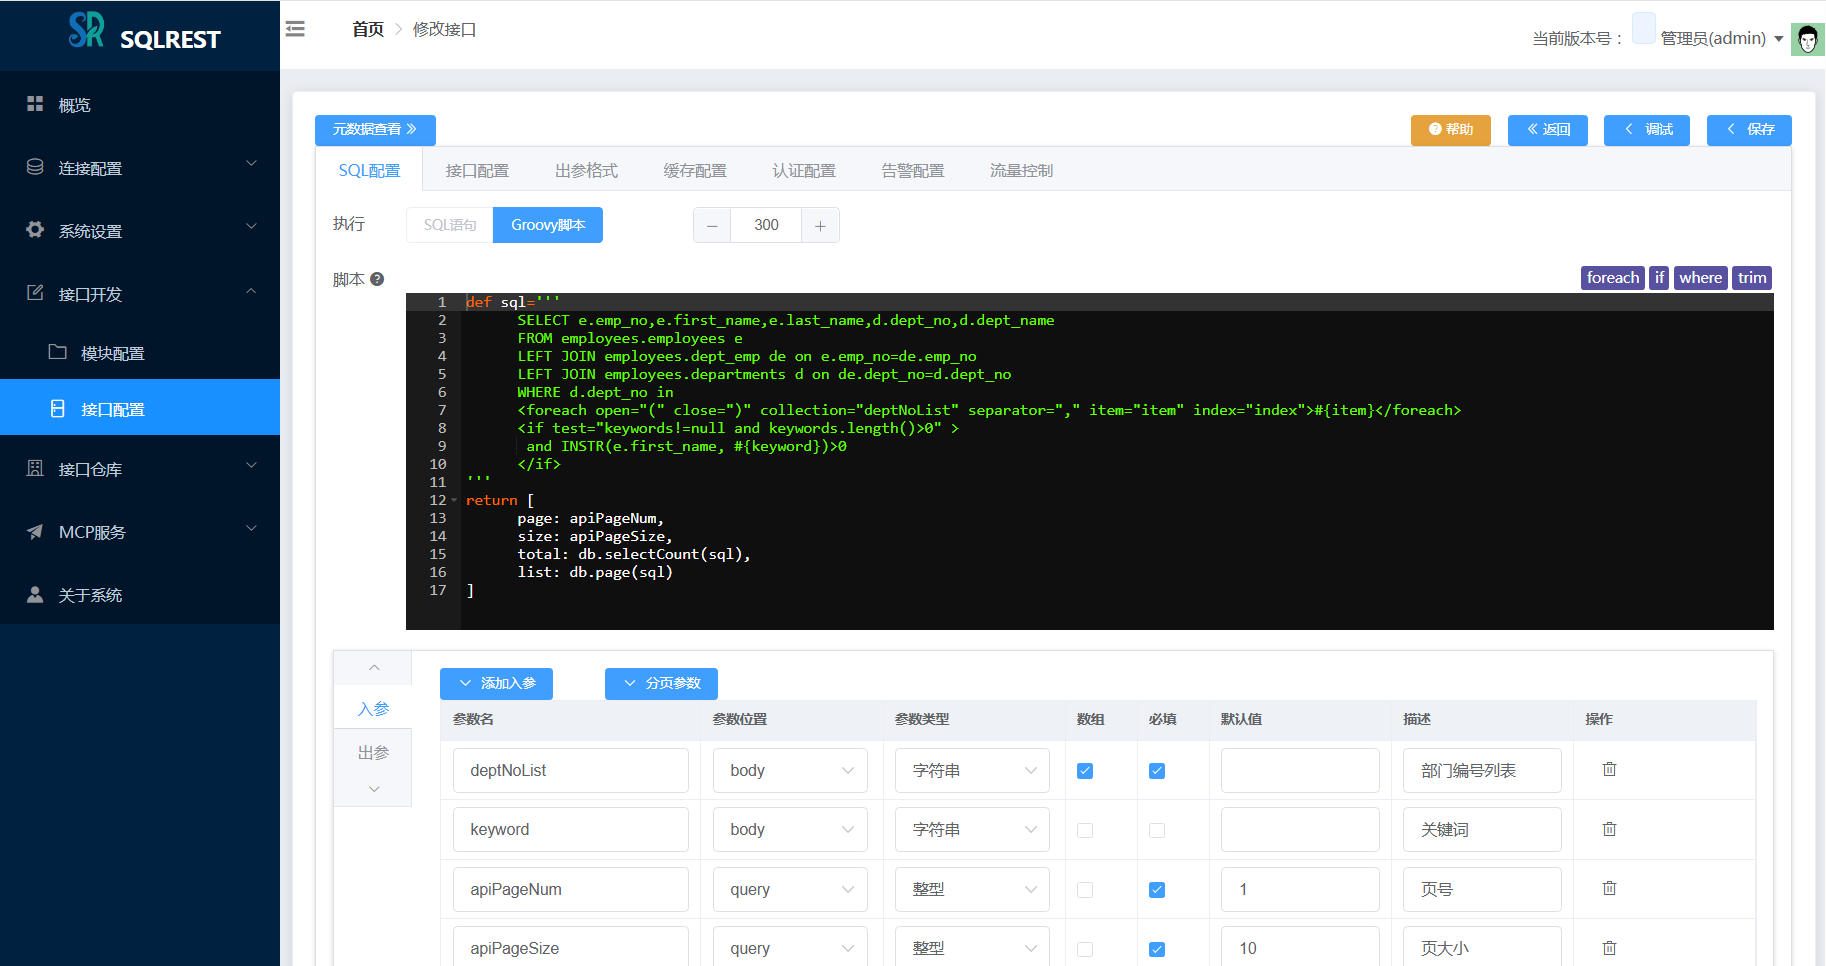
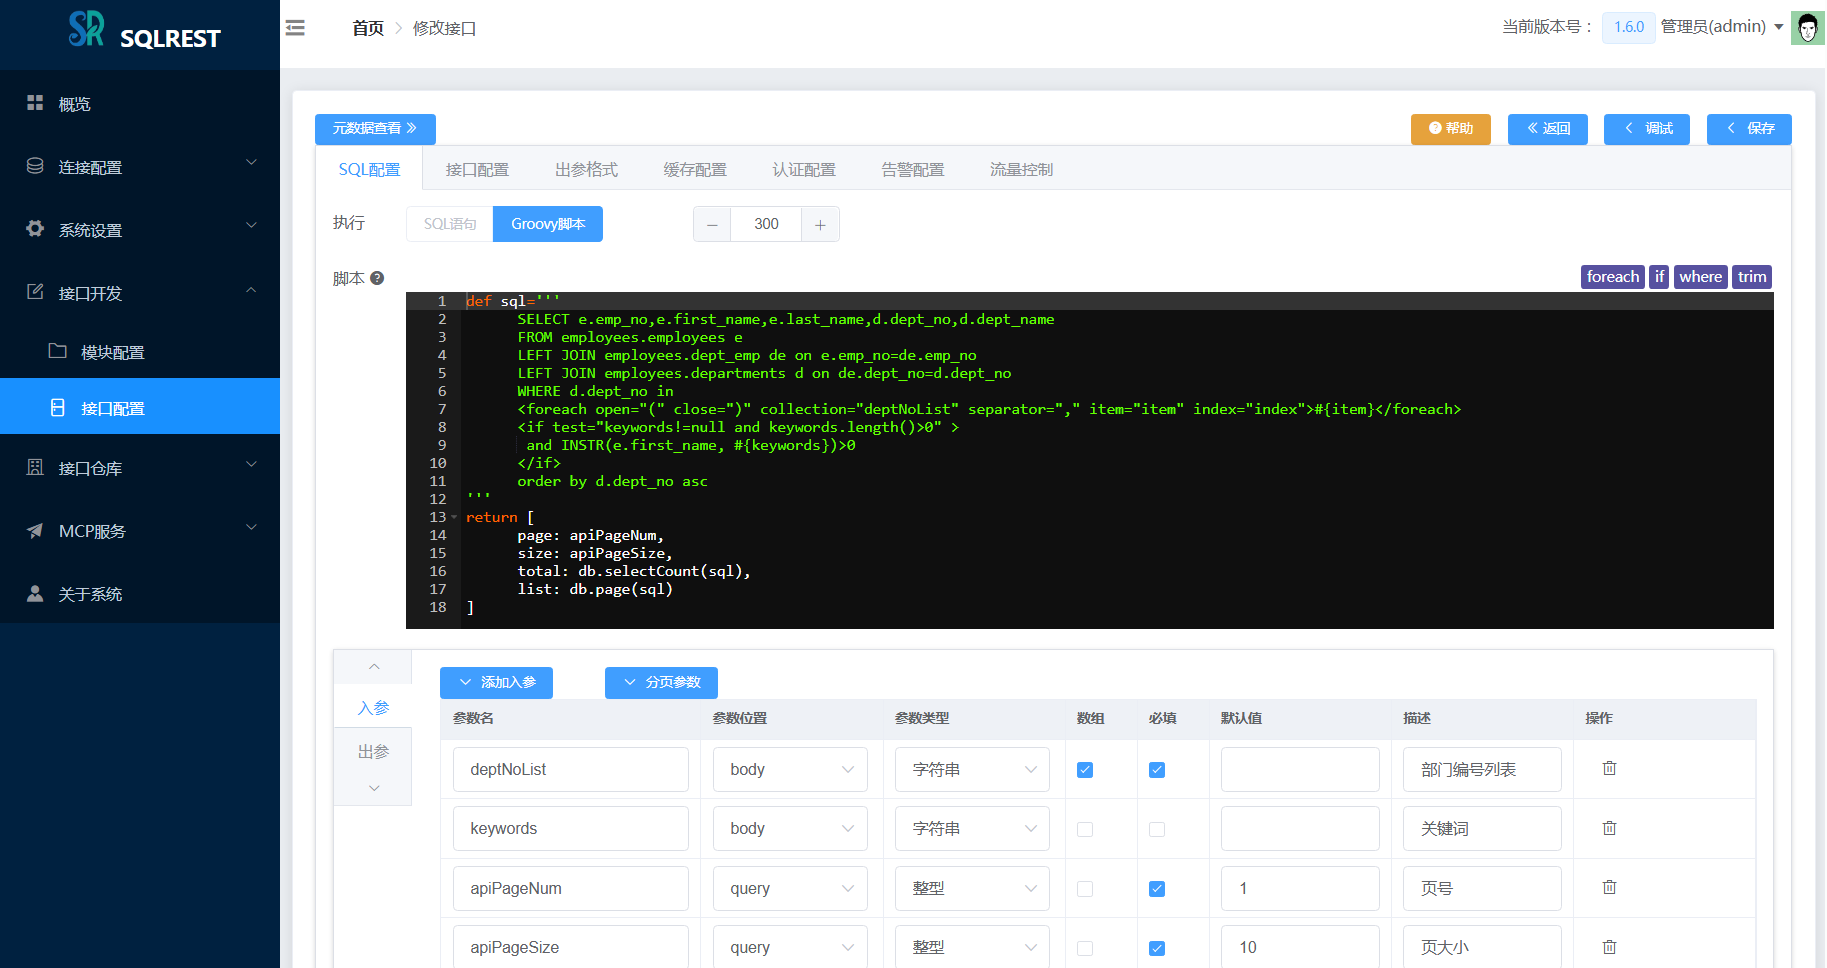
修正分页查询问题

diff --git a/sqlrest-common/src/main/java/org/dromara/sqlrest/common/enums/ProductTypeEnum.java b/sqlrest-common/src/main/java/org/dromara/sqlrest/common/enums/ProductTypeEnum.java
@@ -39,7 +39,7 @@ public enum ProductTypeEnum {
               "jdbc:mysql://172.17.2.10:3306/test?useUnicode=true&characterEncoding=utf-8&useSSL=false&zeroDateTimeBehavior=convertToNull&serverTimezone=Asia/Shanghai&tinyInt1isBit=false&rewriteBatchedStatements=true&useCompression=true")
           .sqlSchemaList("SELECT `SCHEMA_NAME` FROM `information_schema`.`SCHEMATA`")
           .adapter(database -> Pair.of(database, null))
-          .pageSql("select * from (%s) alias limit ? OFFSET ? ")
+          .pageSql("%s LIMIT ? OFFSET ? ")
           .pageConsumer(
               (page, size, parameters) -> {
                 parameters.add(size);
@@ -63,7 +63,7 @@ public enum ProductTypeEnum {
               "jdbc:mariadb://172.17.2.10:3306/test?useUnicode=true&characterEncoding=utf-8&useSSL=false&zeroDateTimeBehavior=convertToNull&serverTimezone=Asia/Shanghai&tinyInt1isBit=false&rewriteBatchedStatements=true&useCompression=true")
           .sqlSchemaList("SELECT `SCHEMA_NAME` FROM `information_schema`.`SCHEMATA`")
           .adapter(database -> Pair.of(database, null))
-          .pageSql("select * from (%s) alias limit ? OFFSET ? ")
+          .pageSql("%s LIMIT ? OFFSET ? ")
           .pageConsumer(
               (page, size, parameters) -> {
                 parameters.add(size);
@@ -136,7 +136,7 @@ public enum ProductTypeEnum {
           .urlSample("jdbc:postgresql://172.17.2.10:5432/test")
           .sqlSchemaList("SELECT schema_name FROM information_schema.schemata ")
           .adapter(database -> Pair.of(null, database))
-          .pageSql("select * from (%s) alias limit ? offset ? ")
+          .pageSql("%s LIMIT ? OFFSET ? ")
           .pageConsumer(
               (page, size, parameters) -> {
                 parameters.add(size);
@@ -182,11 +182,11 @@ public enum ProductTypeEnum {
           .defaultPort(5236)
           .testSql("SELECT 'Hello' from DUAL")
           .urlPrefix("jdbc:dm://")
-          .tplUrls(new String[]{"jdbc:dm://{host}:{port}[/{database}][\\\\?{params}]"})
+          .tplUrls(new String[]{"jdbc:dm://{host}:{port}[/{database}][\\?{params}]"})
           .urlSample("jdbc:dm://172.17.2.10:5236")
           .sqlSchemaList("SELECT DISTINCT object_name FROM ALL_OBJECTS WHERE OBJECT_TYPE = 'SCH'")
           .adapter(database -> Pair.of(null, database))
-          .pageSql("select * from (%s) alias limit ? offset ? ")
+          .pageSql("%s LIMIT ? OFFSET ? ")
           .pageConsumer(
               (page, size, parameters) -> {
                 parameters.add(size);
@@ -210,7 +210,7 @@ public enum ProductTypeEnum {
           .urlSample("jdbc:kingbase8://172.17.2.10:54321/test")
           .sqlSchemaList("SELECT schema_name FROM information_schema.schemata ")
           .adapter(database -> Pair.of(null, database))
-          .pageSql("select * from (%s) alias limit ? offset ? ")
+          .pageSql("%s LIMIT ? OFFSET ? ")
           .pageConsumer(
               (page, size, parameters) -> {
                 parameters.add(size);
@@ -234,7 +234,7 @@ public enum ProductTypeEnum {
           .urlSample("jdbc:oscar://172.17.2.10:2003/OSCRDB")
           .sqlSchemaList("SELECT schema_name FROM information_schema.schemata ")
           .adapter(database -> Pair.of(null, database))
-          .pageSql("select * from (%s) alias limit ? offset ? ")
+          .pageSql("%s LIMIT ? OFFSET ? ")
           .pageConsumer(
               (page, size, parameters) -> {
                 parameters.add(size);
@@ -258,7 +258,7 @@ public enum ProductTypeEnum {
           .urlSample("jdbc:gbase://172.17.2.10:5258/test")
           .sqlSchemaList("SELECT schema_name FROM information_schema.schemata ")
           .adapter(database -> Pair.of(database, null))
-          .pageSql("select * from (%s) alias limit ? offset ? ")
+          .pageSql("%s LIMIT ? OFFSET ? ")
           .pageConsumer(
               (page, size, parameters) -> {
                 parameters.add(size);
@@ -282,7 +282,7 @@ public enum ProductTypeEnum {
           .urlSample("jdbc:sybase:Tds:172.17.2.10:5000/test?charset=cp936")
           .sqlSchemaList("SELECT schema_name FROM information_schema.schemata ")
           .adapter(database -> Pair.of(null, database))
-          .pageSql("SELECT * FROM (%s) ALIAS OFFSET ? ROWS FETCH NEXT ? ROWS ONLY")
+          .pageSql("%s OFFSET ? ROWS FETCH NEXT ? ROWS ONLY")
           .pageConsumer(
               (page, size, parameters) -> {
                 parameters.add((page - 1) * size);
@@ -306,7 +306,7 @@ public enum ProductTypeEnum {
           .urlSample("jdbc:hive2://172.17.2.12:10000/default")
           .sqlSchemaList("SHOW DATABASES")
           .adapter(database -> Pair.of(null, database))
-          .pageSql("select * from (%s) alias limit ? OFFSET ? ")
+          .pageSql("%s LIMIT ? OFFSET ? ")
           .pageConsumer(
               (page, size, parameters) -> {
                 parameters.add(size);
@@ -339,7 +339,7 @@ public enum ProductTypeEnum {
           .urlSample("jdbc:impala://172.17.2.12:10000/default")
           .sqlSchemaList("SHOW DATABASES")
           .adapter(database -> Pair.of(null, database))
-          .pageSql("select * from (%s) alias limit ? OFFSET ? ")
+          .pageSql("%s LIMIT ? OFFSET ? ")
           .pageConsumer(
               (page, size, parameters) -> {
                 parameters.add(size);
@@ -366,13 +366,13 @@ public enum ProductTypeEnum {
           .name("inceptor")
           .driver("org.apache.hive.jdbc.HiveDriver")
           .defaultPort(10000)
-          .testSql("SELECT 1")
+          .testSql(null)
           .urlPrefix("jdbc:hive2://")
           .tplUrls(new String[]{"jdbc:hive2://{host}[:{port}]/[{database}][;{params}]"})
           .urlSample("jdbc:hive2://172.17.2.12:10000/default;escape=false")
           .sqlSchemaList("SHOW DATABASES")
           .adapter(database -> Pair.of(null, database))
-          .pageSql("select * from (%s) alias limit ? OFFSET ? ")
+          .pageSql("%s LIMIT ? OFFSET ? ")
           .pageConsumer(
               (page, size, parameters) -> {
                 parameters.add(size);
@@ -407,7 +407,7 @@ public enum ProductTypeEnum {
           .sqlSchemaList(null)
           .retSchemaList(Collections.singletonList("sqlite_master"))
           .adapter(database -> Pair.of(null, database))
-          .pageSql("select * from (%s) alias limit ? offset ? ")
+          .pageSql("%s LIMIT ? OFFSET ? ")
           .pageConsumer(
               (page, size, parameters) -> {
                 parameters.add(size);
@@ -431,7 +431,7 @@ public enum ProductTypeEnum {
           .urlSample("jdbc:opengauss://172.17.2.10:5432/test")
           .sqlSchemaList("SELECT schema_name FROM information_schema.schemata ")
           .adapter(database -> Pair.of(null, database))
-          .pageSql("select * from (%s) alias limit ? offset ? ")
+          .pageSql("%s LIMIT ? OFFSET ? ")
           .pageConsumer(
               (page, size, parameters) -> {
                 parameters.add(size);
@@ -455,7 +455,7 @@ public enum ProductTypeEnum {
           .urlSample("jdbc:clickhouse://172.17.2.10:8123/default")
           .sqlSchemaList("SELECT schema_name FROM information_schema.schemata ")
           .adapter(database -> Pair.of(null, database))
-          .pageSql("select * from (%s) alias limit ? OFFSET ? ")
+          .pageSql("%s LIMIT ? OFFSET ? ")
           .pageConsumer(
               (page, size, parameters) -> {
                 parameters.add(size);
@@ -480,7 +480,7 @@ public enum ProductTypeEnum {
               "jdbc:mysql://172.17.2.10:3306/test?useUnicode=true&characterEncoding=utf-8&useSSL=false&zeroDateTimeBehavior=convertToNull&serverTimezone=Asia/Shanghai&tinyInt1isBit=false&rewriteBatchedStatements=true&useCompression=true")
           .sqlSchemaList("SELECT `SCHEMA_NAME` FROM `information_schema`.`SCHEMATA`")
           .adapter(database -> Pair.of(database, null))
-          .pageSql("select * from (%s) alias limit ? OFFSET ? ")
+          .pageSql("%s LIMIT ? OFFSET ? ")
           .pageConsumer(
               (page, size, parameters) -> {
                 parameters.add(size);
@@ -505,7 +505,7 @@ public enum ProductTypeEnum {
               "jdbc:mysql://172.17.2.10:3306/test?useUnicode=true&characterEncoding=utf-8&useSSL=false&zeroDateTimeBehavior=convertToNull&serverTimezone=Asia/Shanghai&tinyInt1isBit=false&rewriteBatchedStatements=true&useCompression=true")
           .sqlSchemaList("SELECT `SCHEMA_NAME` FROM `information_schema`.`SCHEMATA`")
           .adapter(database -> Pair.of(database, null))
-          .pageSql("select * from (%s) alias limit ? OFFSET ? ")
+          .pageSql("%s LIMIT ? OFFSET ? ")
           .pageConsumer(
               (page, size, parameters) -> {
                 parameters.add(size);
@@ -530,7 +530,7 @@ public enum ProductTypeEnum {
           .urlSample("jdbc:oceanbase://127.0.0.1:2881/test")
           .sqlSchemaList(null)
           .adapter(null)
-          .pageSql("select * from (%s) alias limit ? OFFSET ? ")
+          .pageSql("%s LIMIT ? OFFSET ? ")
           .pageConsumer(
               (page, size, parameters) -> {
                 parameters.add(size);
@@ -554,7 +554,7 @@ public enum ProductTypeEnum {
           .urlSample("jdbc:TAOS-RS://172.17.2.10:6041/test")
           .sqlSchemaList("SELECT name FROM `information_schema`.`ins_databases`")
           .adapter(database -> Pair.of(database, null))
-          .pageSql("select * from (%s) alias limit ? OFFSET ? ")
+          .pageSql("%s LIMIT ? OFFSET ? ")
           .pageConsumer(
               (page, size, parameters) -> {
                 parameters.add(size);

diff --git a/README.md b/README.md
@@ -7,8 +7,8 @@
 
 ## 一、工具介绍
 
-SQLREST 是一个开源项目，旨在提供一种简单而强大的方式来将 SQL 操作转化为 RESTful API。它支持多种数据库，允许用户通过配置 SQL 语句来创建 API，无
-需编写复杂的后端逻辑，用户只需选择数据源、输入SQL或脚本、简单path配置即可快速生成API接口。
+SQLREST 是一个开源项目，旨在提供一种简单而强大的方式来将 SQL 操作转化为 RESTful API。它支持多种数据库，允许用户通过配置 SQL 语句来创建 API，
+无需编写复杂的后端逻辑，用户只需选择数据源、输入SQL或脚本、简单path配置即可快速生成API接口。
 
 ### 1、功能介绍
 
@@ -21,7 +21,7 @@ SQLREST的功能包括：
 - **参数类型支持**：支持整型/浮点型/时间/日期/布尔/字符串/对象等多种类型。
 - **ContentType支持**：支持application/x-www-form-urlencoded及application/json等多种请求格式。
 - **身份认证支持**：提供基于 Token 的认证机制，保护 API 安全。
-- **实时在线文档**：支持自动生成swagger-ui的在线接口文档。
+- **在线接口文档**：支持自动生成swagger和knife4j等在线接口文档。
 - **缓存配置支持**：支持 Hazelcast 和 Redis 缓存，提升 API 访问性能。
 - **流控配置管理**：通过 Sentinel 支持流量控制，防止系统过载。
 - **统一告警对接**：支持统一告警系统的对接与触发。
@@ -31,8 +31,6 @@ SQLREST的功能包括：
 SQLREST作为微服务架构下的数据访问中间件，适合以下场景：
 
 - **快速将 SQL 转换为 API**
-- **企业级数据库访问统一接口**
-- **API 访问控制与流控**
 - **适用于数据中台、BI 工具、低代码平台等**
 
 ### 2、数据库清单
@@ -82,9 +80,8 @@ SQLREST作为微服务架构下的数据访问中间件，适合以下场景：
 
 ### 4、正在规划中的功能
 
-- **接口详情功能**:支持接口的详细定义、数据来源、访问分析等功能。
-- **前端界面美化**: 美化界面的交互展示，尤其是“拓扑结构”页面。
-- **增强SQ语法自动提示**: 在实现的库名表名提示的基础上，基于数据库元信息的增强智能提示，强化用户体验。
+- **接口详情功能**: 支持接口的详细定义、数据来源、访问分析等功能。
+- **语法提示增强**: 在实现的库名表名提示的基础上，基于数据库元信息的增强智能提示，强化用户体验。
 
 ## 二、编译打包
 
